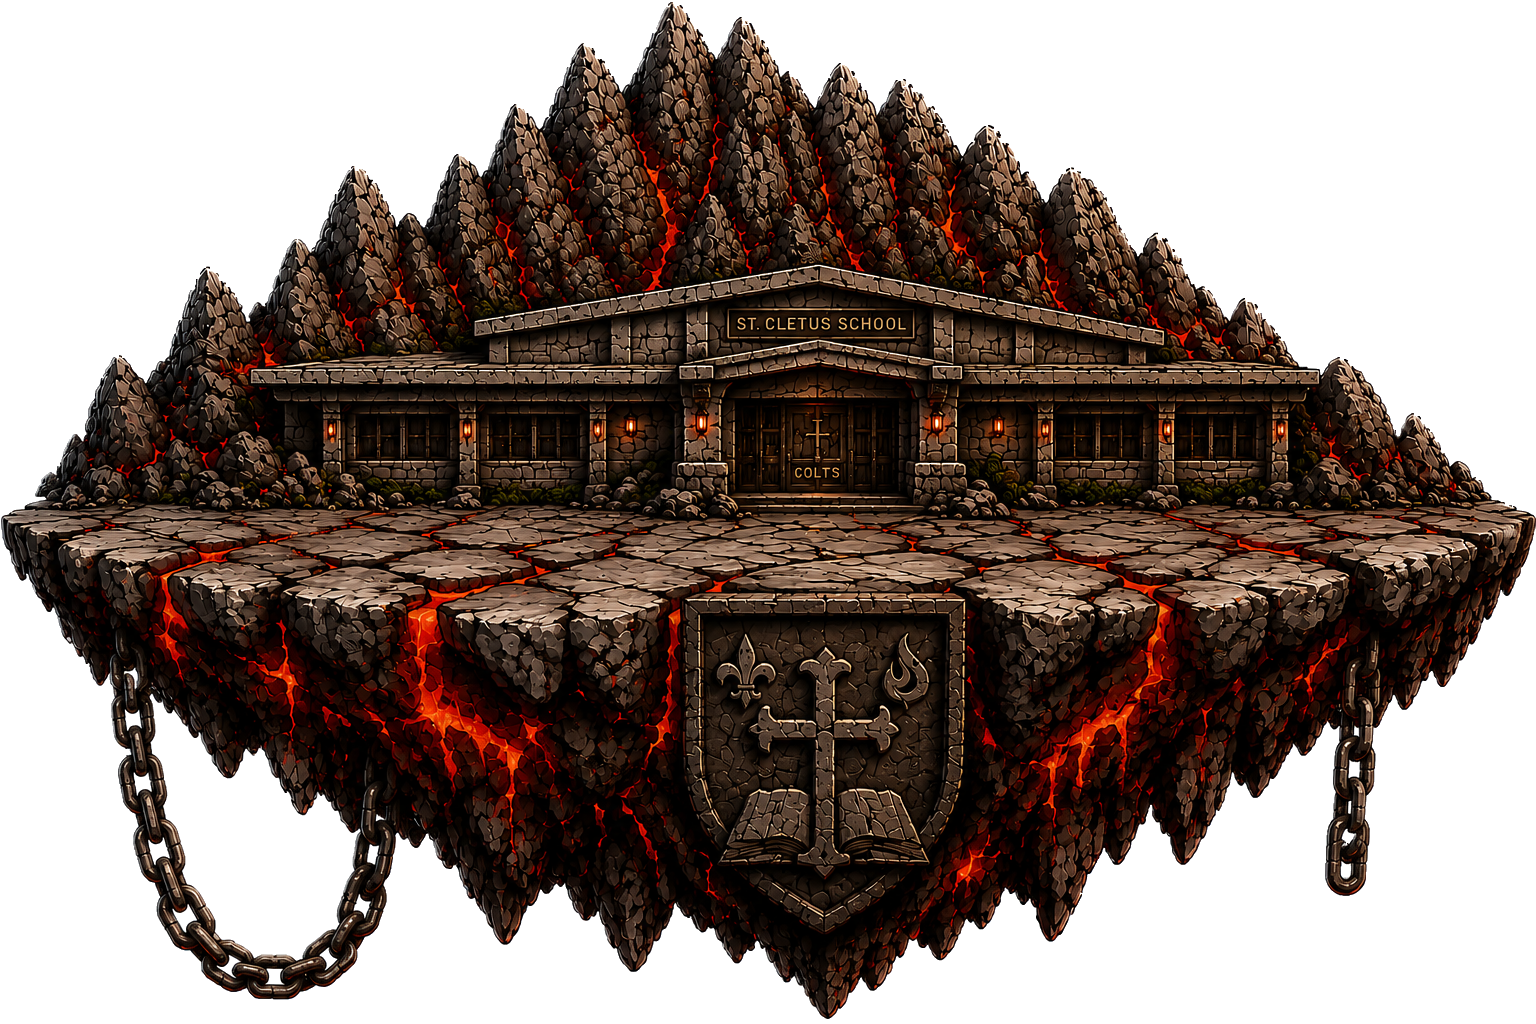
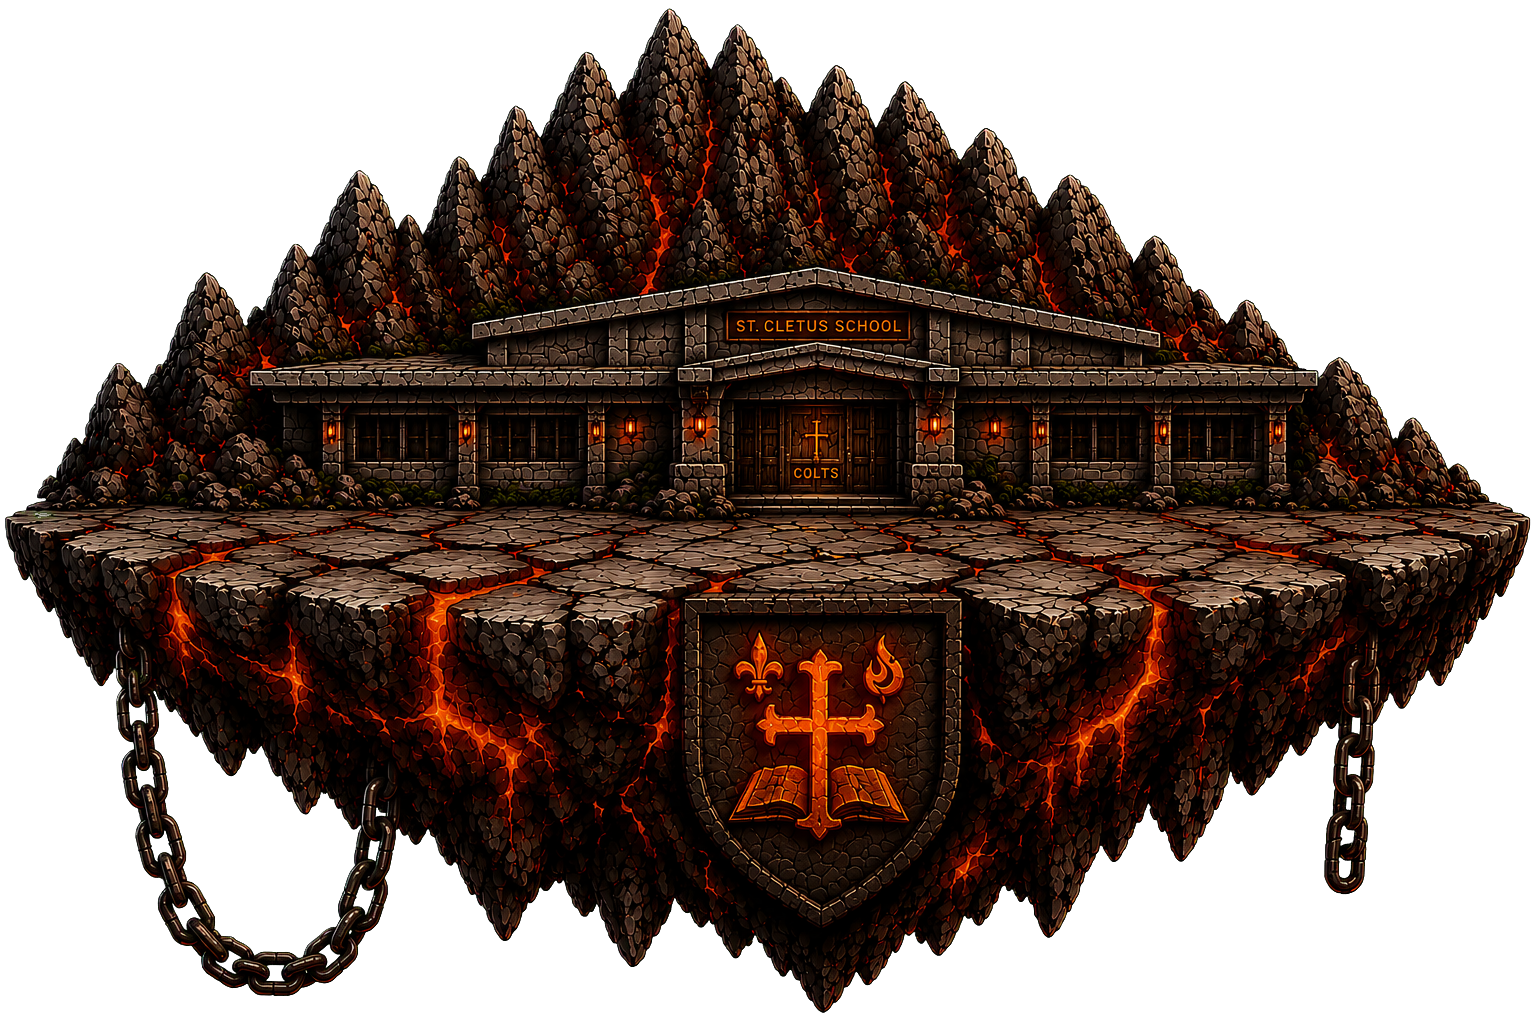
Remove old Colt Run school platform

diff --git a/app.js b/app.js
@@ -2093,11 +2093,13 @@ function startColtRunGame() {
   platformAssetVersions[15] = "20260719-platform16-replace1";
   platformAssetVersions[16] = "20260720-platform17-glowing-crest1";
   platformAssetVersions[17] = "20260718-platform18-replace1";
+  platformAssetVersions[19] = "20260720-platform20-colored-fallback1";
   platformAssetVersions[20] = "20260718-platform21-replace1";
   const platformSpriteSources = platformAssetVersions.map((version, index) => (
     `assets/colt-run-platform-${String(index + 1).padStart(2, "0")}.png?v=${version}`
   ));
   const platformSprites = platformSpriteSources.map(() => new Image());
+  const retiredPlatformSpriteIndexes = new Set([19]);
   const ensurePlatformSprite = index => {
     const spriteIndex = Math.abs(index) % platformSprites.length;
     const sprite = platformSprites[spriteIndex];
@@ -4167,7 +4169,9 @@ function startColtRunGame() {
   };
 
   const shuffleStartingPlatformDeck = () => {
-    startingPlatformDeck = platformSprites.map((_, index) => index).filter(index => index !== smallPlatformSpriteIndex);
+    startingPlatformDeck = platformSprites
+      .map((_, index) => index)
+      .filter(index => index !== smallPlatformSpriteIndex && !retiredPlatformSpriteIndexes.has(index));
     for (let index = startingPlatformDeck.length - 1; index > 0; index -= 1) {
       const swapIndex = Math.floor(Math.random() * (index + 1));
       [startingPlatformDeck[index], startingPlatformDeck[swapIndex]] = [startingPlatformDeck[swapIndex], startingPlatformDeck[index]];
@@ -4193,10 +4197,11 @@ function startColtRunGame() {
         lastPlatformSprite = smallPlatformSpriteIndex;
         return smallPlatformSpriteIndex;
       }
-      const widePlatforms = [0, 2, 6, 7, 9, 11, 12, 13, 14, 15, 18, 19];
+      const widePlatforms = [0, 2, 6, 7, 9, 11, 12, 13, 14, 15, 18];
       const islandPlatforms = [1, 2, 3, 4, 5, 8, 10, 11, 12, 14, 15, 20];
       const choices = width > 230 ? widePlatforms : islandPlatforms;
-      const availableChoices = choices.length > 1 ? choices.filter(choice => choice !== lastPlatformSprite) : choices;
+      const activeChoices = choices.filter(choice => !retiredPlatformSpriteIndexes.has(choice));
+      const availableChoices = activeChoices.length > 1 ? activeChoices.filter(choice => choice !== lastPlatformSprite) : activeChoices;
       const sprite = availableChoices[Math.floor(random() * availableChoices.length)];
       lastPlatformSprite = sprite;
       return sprite;

diff --git a/index.html b/index.html
@@ -8,7 +8,7 @@
 </head>
 <body>
   <main id="app" class="app-shell"></main>
-  <script src="app.js?v=20260720-platform14-colored-crest1"></script>
+  <script src="app.js?v=20260720-remove-old-school-platform1"></script>
 </body>
 </html>
 
